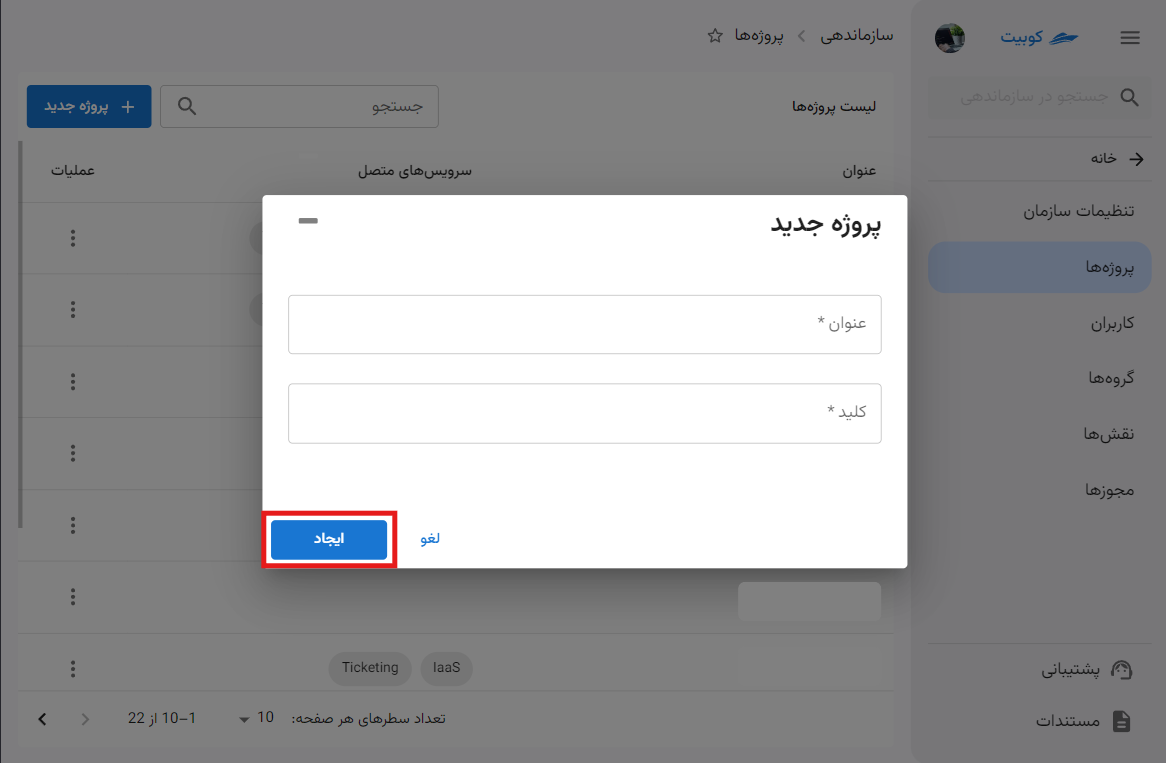
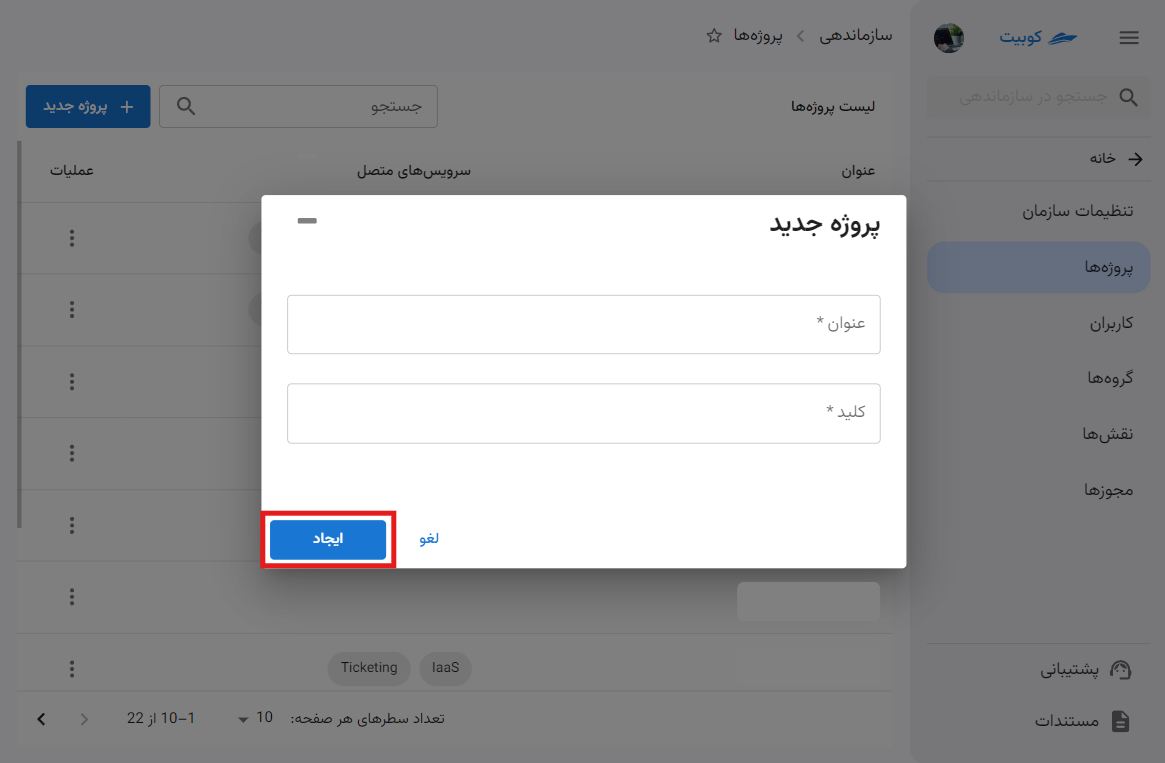
update create project hint in bucket-settings.md

diff --git a/docs/fa/buckets/bucket-settings.md b/docs/fa/buckets/bucket-settings.md
@@ -37,13 +37,14 @@
 
 ## قطع اتصال پروژه
 
-از آیکون قطع اتصال روی کارت هر پروژه، میتوانید نسبت به قطع اتصال پروژه از سرویس باکت، اقدام کنید:
+- برای قطع اتصال پروژه از سرویس باکت، میتوانید از آیکون قطع اتصال روی کارت پروژه موردنظر اقدام کنید.
+- سپس در صورت اطمینان، روی دکمه **تایید** دیالوگ باز شده کلیک کنید.
 ![Buckets: unbind project](unbind-project.png)
-سپس روی **تایید** کلیک کنید:
 ![Buckets: conform unbind project](confirm-unbind-project.png)
 
 :::tip[ساخت پروژه]
 همچنین اگه تمایل به ایجاد پروژه جدید دارید، میتوانید از طریق گزینه **ایجاد پروژه جدید** اقدام کنید:
 ![Buckets: new project](new-project.png)
-برای مطالعه مراحل ساخت پروژه، به سند [ساخت پروژه](../../organize/project#create-project) مراجعه کنید.
+سپس **عنوان** و **کلید** پروژه را وارد کرده و روی **ایجاد** کلیک کنید:
+![Buckets: create project form](../organize/create-project-form.png)
 :::
